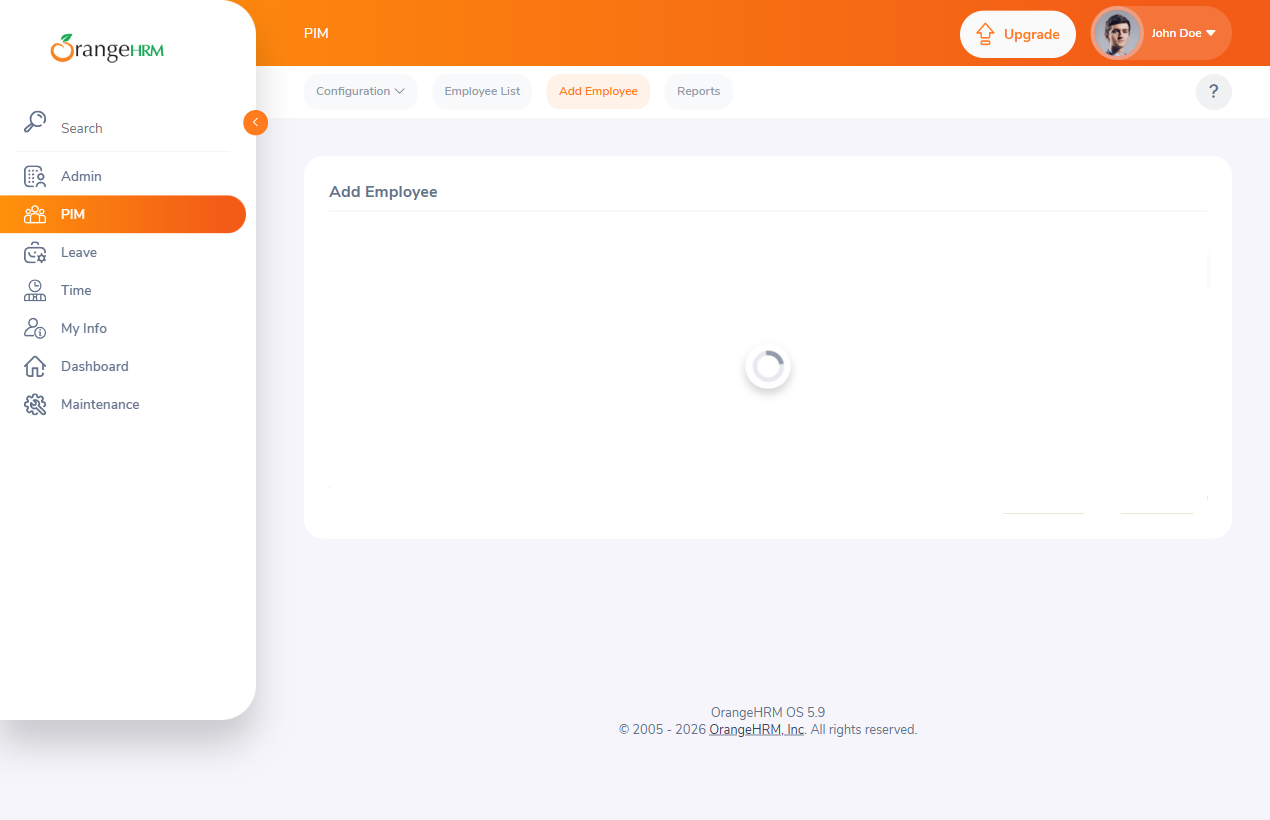
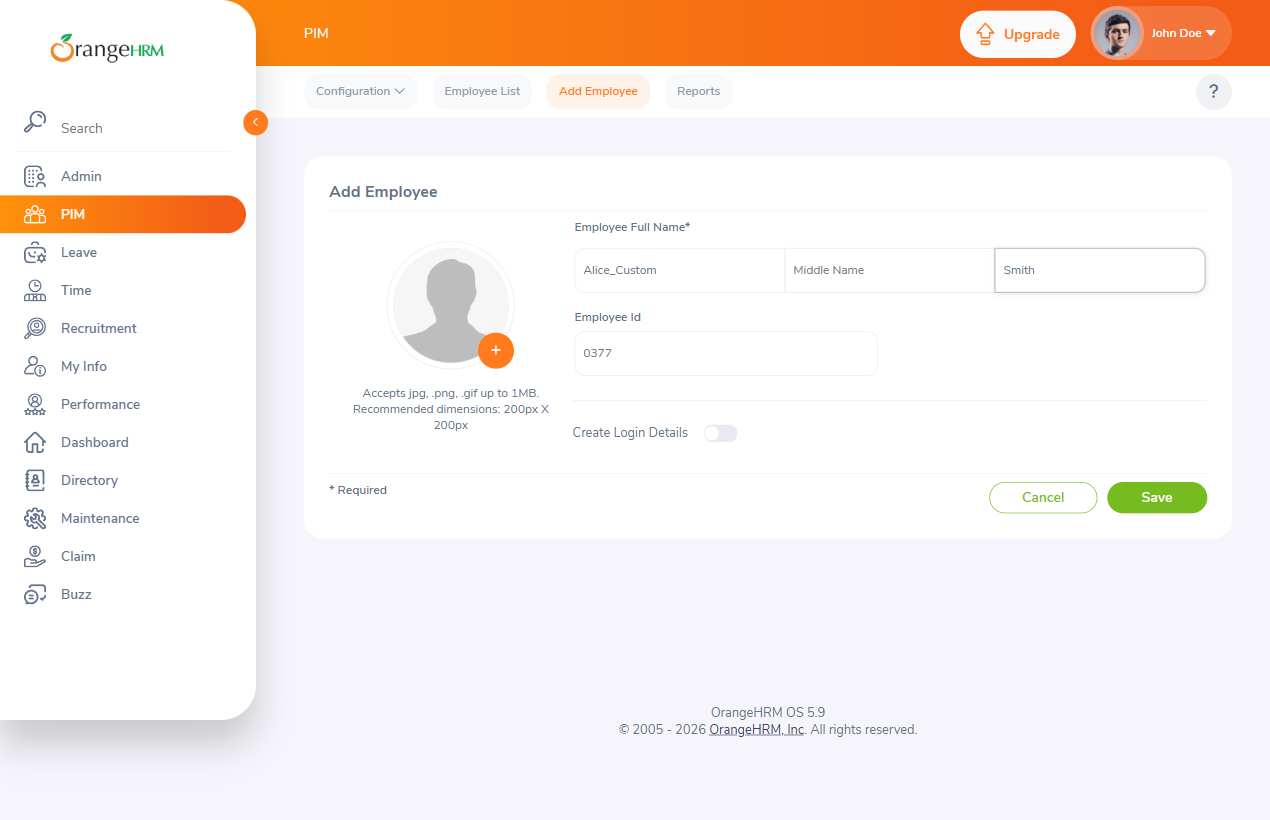
final commit

diff --git a/public/reports/Report.html b/public/reports/Report.html
@@ -12,7 +12,7 @@
     </head>
     <body>
       <h1>Test Execution Report</h1>
-      <p>Generated on: 10/22/2026, 1:18:54 AM</p>
+      <p>Generated on: 10/22/2026, 1:38:37 AM</p>
       <table>
         <tr>
           <th>Job Name</th><th>Project Name</th><th>Environment</th>
@@ -25,7 +25,7 @@
         <td>https://opensource-demo.orangehrmlive.com/web/index.php/auth/login</td>
         <td>Smith</td>
         <td><strong>Passed</strong></td>
-        <td>PRJ-1361</td>
+        <td>PRJ-9522</td>
         <td>OrangeHRM</td>
       </tr>
     

diff --git a/tests/createCreditProject.js b/tests/createCreditProject.js
@@ -3,7 +3,7 @@ const fs = require('fs');
 const path = require('path');
 
 // This is the function our automation.js router calls
-async function runCreateCreditProject(page, rowData, jobId) {
+async function runcreateCreditProject(page, rowData, jobId) {
   console.log(`[${jobId}] Running Custom JS Test for ${rowData.ProjectName}`);
 
   // 1. Login
@@ -44,4 +44,4 @@ async function runCreateCreditProject(page, rowData, jobId) {
   };
 }
 
-module.exports = { runCreateCreditProject };
+module.exports = { runcreateCreditProject };
